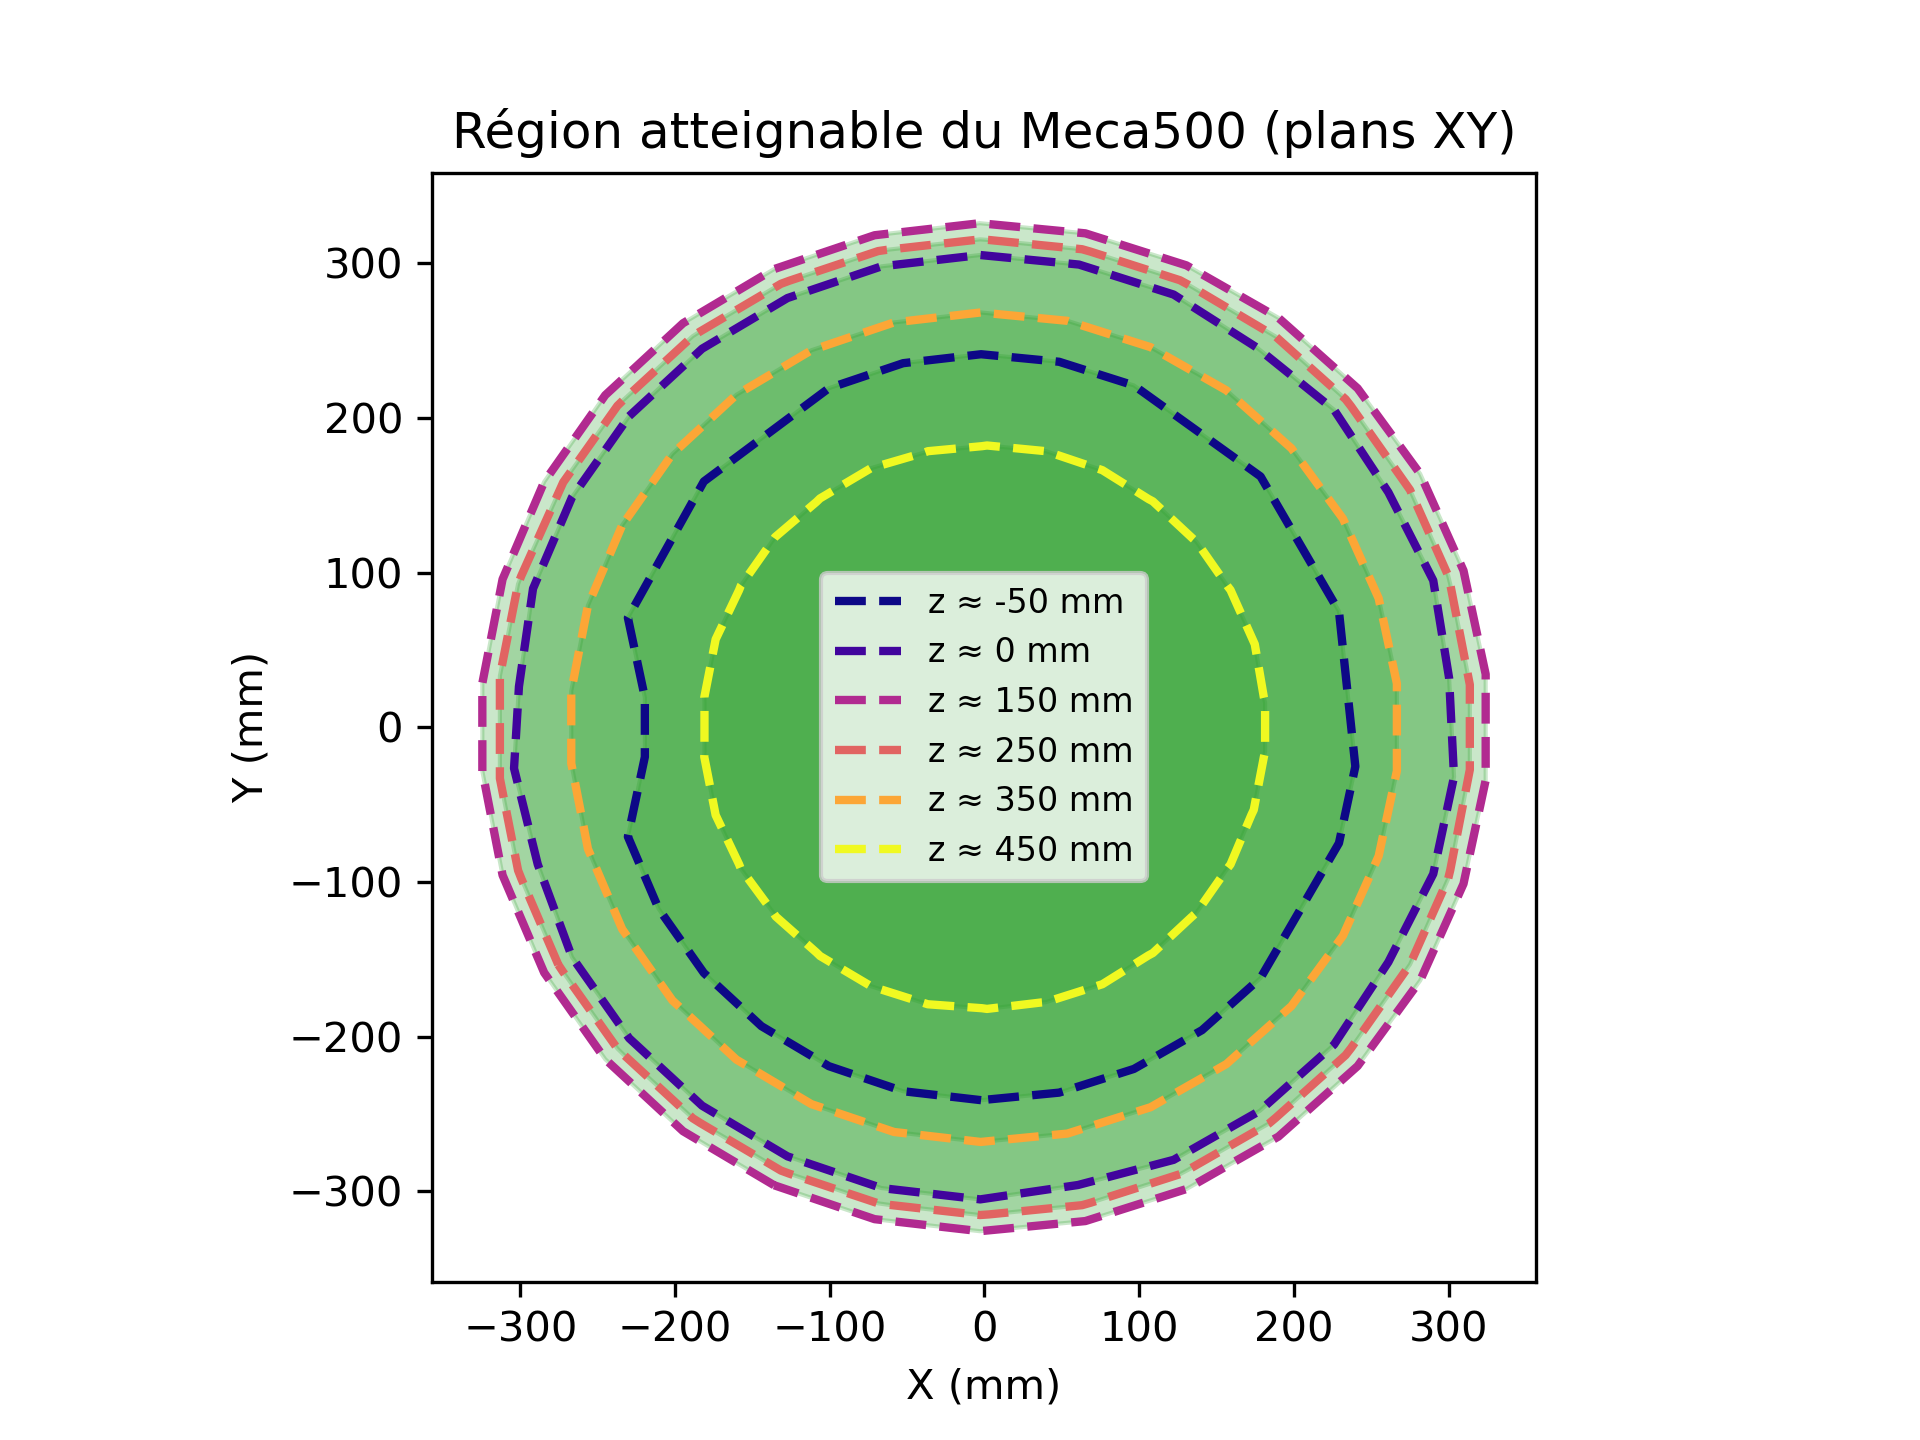
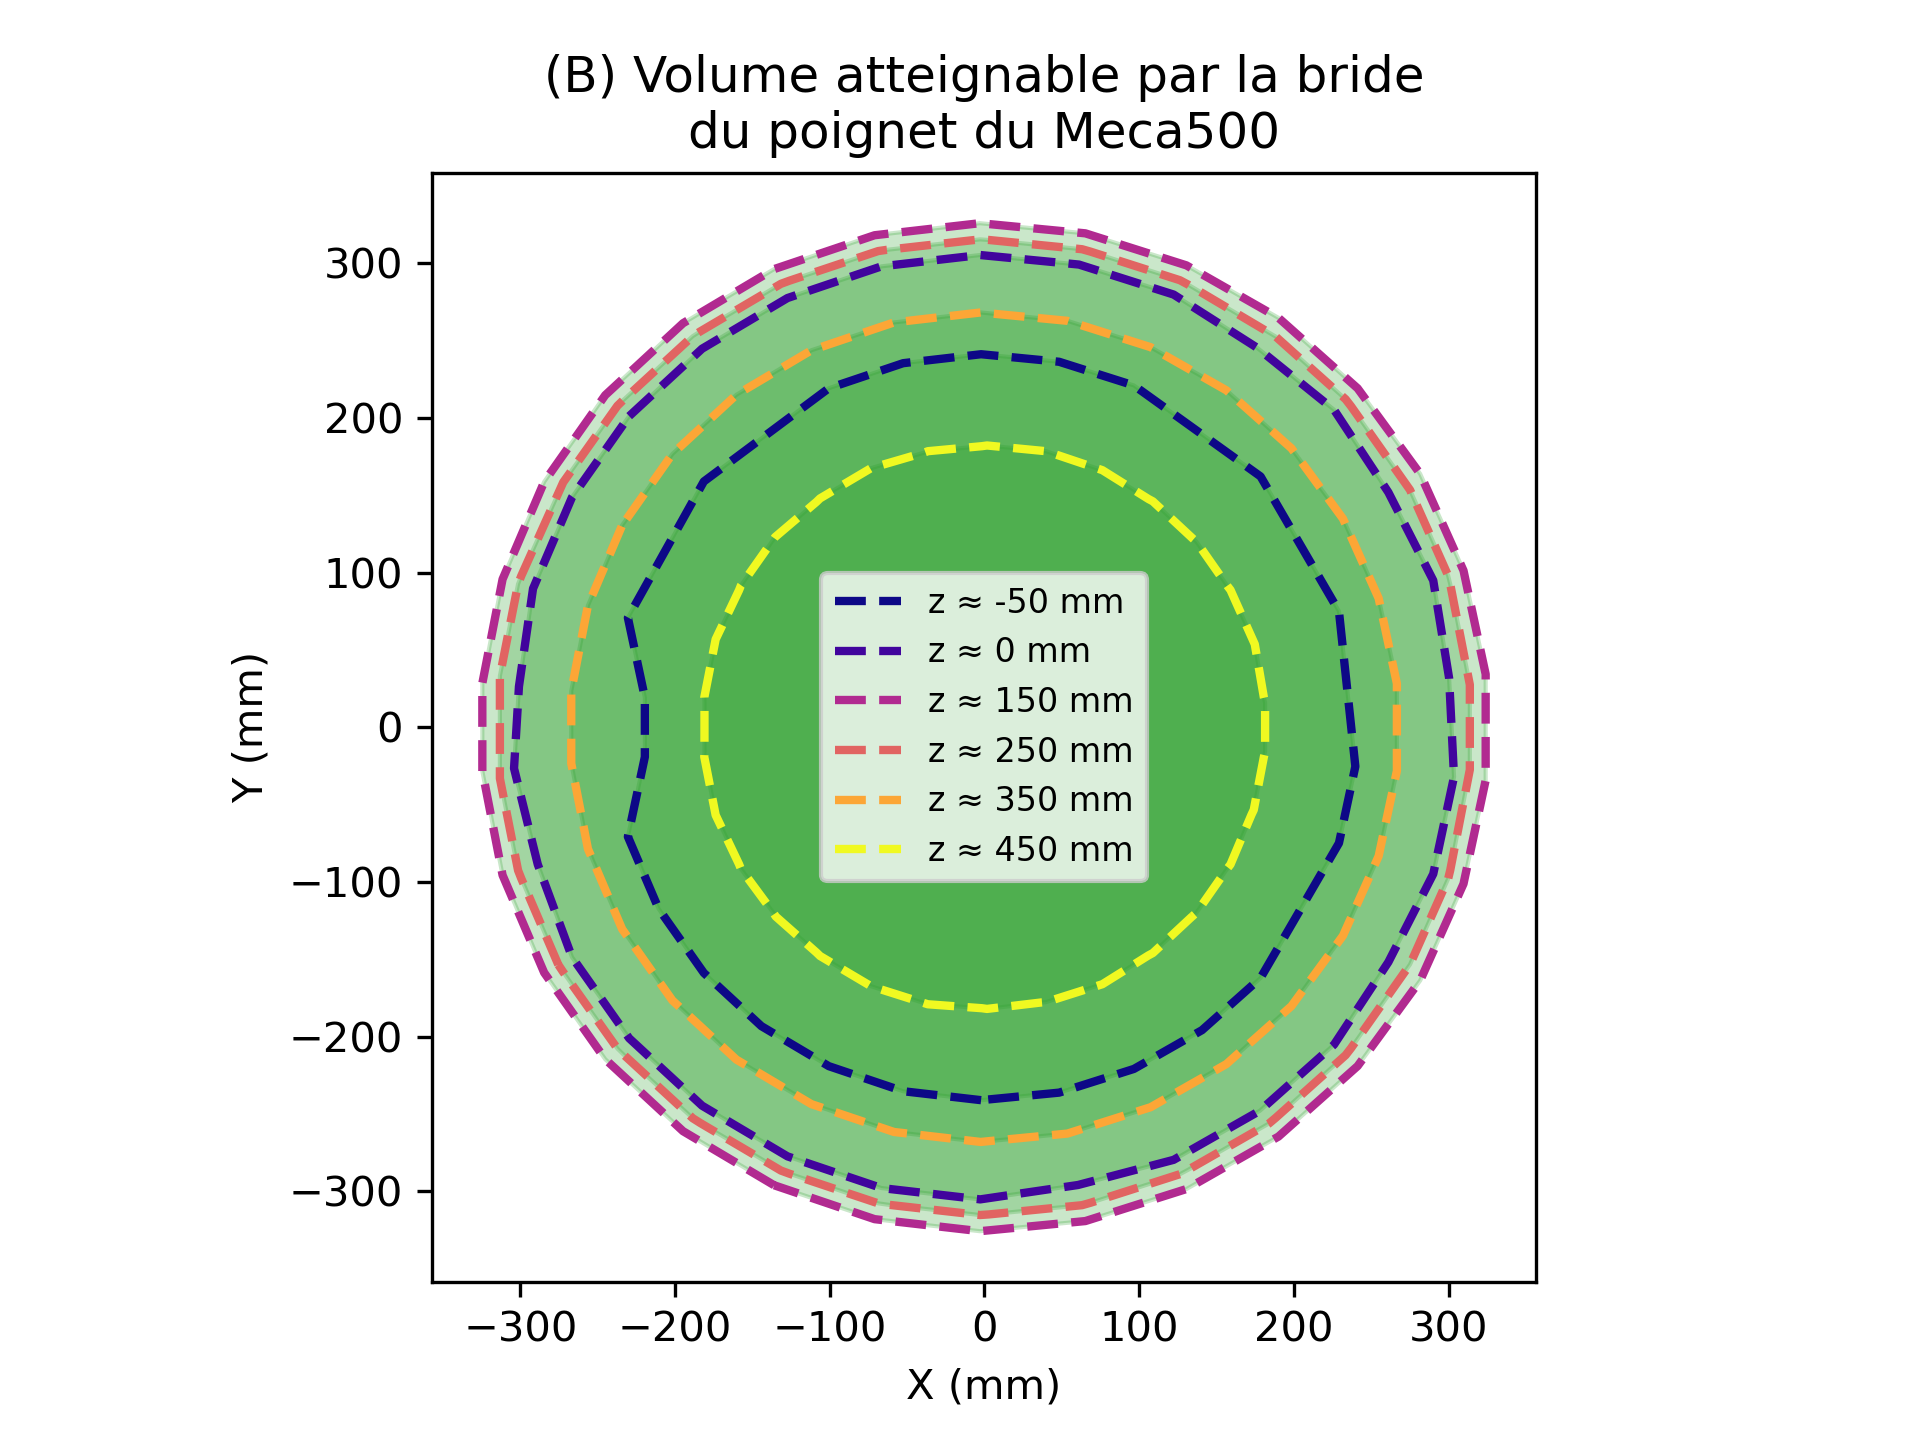
Change end-effector to wrist flange

Changed region(s): [[0.2188, 0.0312, 0.7812, 0.125]]

diff --git a/lab1/src/attainable_volume.py b/lab1/src/attainable_volume.py
@@ -15,7 +15,7 @@ def sample_xz_slice(num_samples_per_joint: int=10) -> np.array:
         num_samples_per_joint (int): Number of samples to take for each joint.
 
     Returns:
-        positions (np.array): Array of attainable end-effector positions.
+        positions (np.array): Array of attainable wrist flange positions.
     """
     joint_ranges = [np.linspace(low, high, num_samples_per_joint) for low, high in JOINT_LIMITS]
     positions = []
@@ -23,7 +23,7 @@ def sample_xz_slice(num_samples_per_joint: int=10) -> np.array:
     # Reduced joint space
     theta1_fixed = 0.0 # Fix joint 1 to sample XZ plane
     theta4_fixed = 0.0 # Fix joint 4 to sample XZ plane
-    theta6_fixed = 0.0 # Fix joint 6 since it affects only end-effector orientation
+    theta6_fixed = 0.0 # Fix joint 6 since it affects only wrist flange orientation
 
     # Iterate over remaining joints
     for theta2 in joint_ranges[1]:
@@ -56,7 +56,7 @@ def sample_xy_slices(z_slices: np.array, num_samples_per_joint: int=10) -> dict:
     # Reduced joint space
     theta5_vals = np.linspace(JOINT_LIMITS[4][0], JOINT_LIMITS[4][1], 3) # Sample fewer values for joint 5
     theta4_fixed = 0.0 # Fix joint 4 to reduce complexity
-    theta6_fixed = 0.0 # Fix joint 6 since it affects only end-effector orientation
+    theta6_fixed = 0.0 # Fix joint 6 since it affects only wrist flange orientation
 
     # Iterate over remaining joints
     for theta1 in joint_ranges[0]:
@@ -80,7 +80,7 @@ def plot_xz_contour(z_slices: np.array, positions: np.array, alpha: float=0.1, s
 
     Parameters:
         z_slices (np.array): Array of Z slices used for sampling.
-        positions (np.array): Array of attainable end-effector positions (Nx3).
+        positions (np.array): Array of attainable wrist flange positions (Nx3).
         alpha (float): Alpha parameter for alpha shape
         savepath (str): Directory to save the figure (optional)
     """
@@ -109,7 +109,7 @@ def plot_xz_contour(z_slices: np.array, positions: np.array, alpha: float=0.1, s
         )
 
     ax.set_aspect('equal')
-    ax.set_title('Région atteignable du Meca500 (plan XZ)')
+    ax.set_title('(A) Région atteignable par la bride\ndu poignet du Meca500 dans le plan XZ')
     ax.set_xlabel('X (mm)')
     ax.set_ylabel('Z (mm)')
     ax.legend(fontsize=8)
@@ -162,7 +162,7 @@ def plot_xy_contours(slices: dict, alpha: float=0.01, savepath: str=None):
         ax.fill(x, y, color='tab:green', alpha=0.25)
 
     ax.set_aspect('equal')
-    ax.set_title("Région atteignable du Meca500 (plans XY)")
+    ax.set_title("(B) Volume atteignable par la bride\ndu poignet du Meca500")
     ax.set_xlabel("X (mm)")
     ax.set_ylabel("Y (mm)")
     ax.legend(fontsize=8)

diff --git a/lab1/src/forward_kinematics.py b/lab1/src/forward_kinematics.py
@@ -5,7 +5,7 @@ from transforms import rotmat_x_deg, rotmat_z_deg, transform_mat, rotmat_to_eule
 
 def forward_kinematics_T(joint_angles: list) -> np.array:
     """
-    Calculate the homogeneous transformation matrix of the end-effector given joint angles.
+    Calculate the homogeneous transformation matrix of the wrist flange given joint angles.
 
     Parameters:
         joint_angles (list): Joint angles in degrees (theta 1 to theta 6).
@@ -35,7 +35,7 @@ def forward_kinematics_T(joint_angles: list) -> np.array:
 
 def forward_kinematics_position(joint_angles: list, verbose: bool=True) -> tuple:
     """
-    Calculate the end-effector position and euler angles of the meca500 robotic arm given joint
+    Calculate the wrist flange position and euler angles of the meca500 robotic arm given joint
     angles.
 
     Parameters:
@@ -43,8 +43,8 @@ def forward_kinematics_position(joint_angles: list, verbose: bool=True) -> tuple
         verbose (bool): Whether to print verbose information about representation singularities.
 
     Returns:
-        position (np.array): The 3D position of the end-effector.
-        euler_angles (np.array): The Euler angles of the end-effector.
+        position (np.array): The 3D position of the wrist flange.
+        euler_angles (np.array): The Euler angles of the wrist flange.
     """
 
     # Joint limits check
@@ -74,8 +74,8 @@ if __name__ == "__main__":
     joint_angles = [joint_1_angle, joint_2_angle, joint_3_angle,
                     joint_4_angle, joint_5_angle, joint_6_angle]
     
-    # Calculate the end-effector position and euler angles
+    # Calculate the wrist flange position and orientation
     position, euler_angles = forward_kinematics_position(joint_angles)
-    print("\nEnd-Effector Position and Euler Angles:")
+    print("\nWrist flange Position and Orientation:")
     print(f"(x={position[0]:.3f}mm, y={position[1]:.3f}mm, z={position[2]:.3f}mm)")
     print(f"(α={euler_angles[0]:.3f}˚, β={euler_angles[1]:.3f}˚, γ={euler_angles[2]:.3f}˚)\n")

diff --git a/lab1/src/transforms.py b/lab1/src/transforms.py
@@ -53,7 +53,7 @@ def rotmat_to_euler_xyz(rotmat: np.array, verbose: bool=True) -> tuple:
 
     # Warn when approaching representation singularity (89˚ < |β| < 90°)
     if 89.0 < abs(beta) < 90.0 and verbose:
-        print(f"WARNING : Close to a representation singularity : |β| = {abs(beta):.3f}˚. α may be ill-conditioned.")
+        print(f"\nWARNING : Close to a representation singularity : |β| = {abs(beta):.3f}˚. α and γ may be ill-conditioned.")
         
     gamma = np.degrees(gamma_rad)
 
